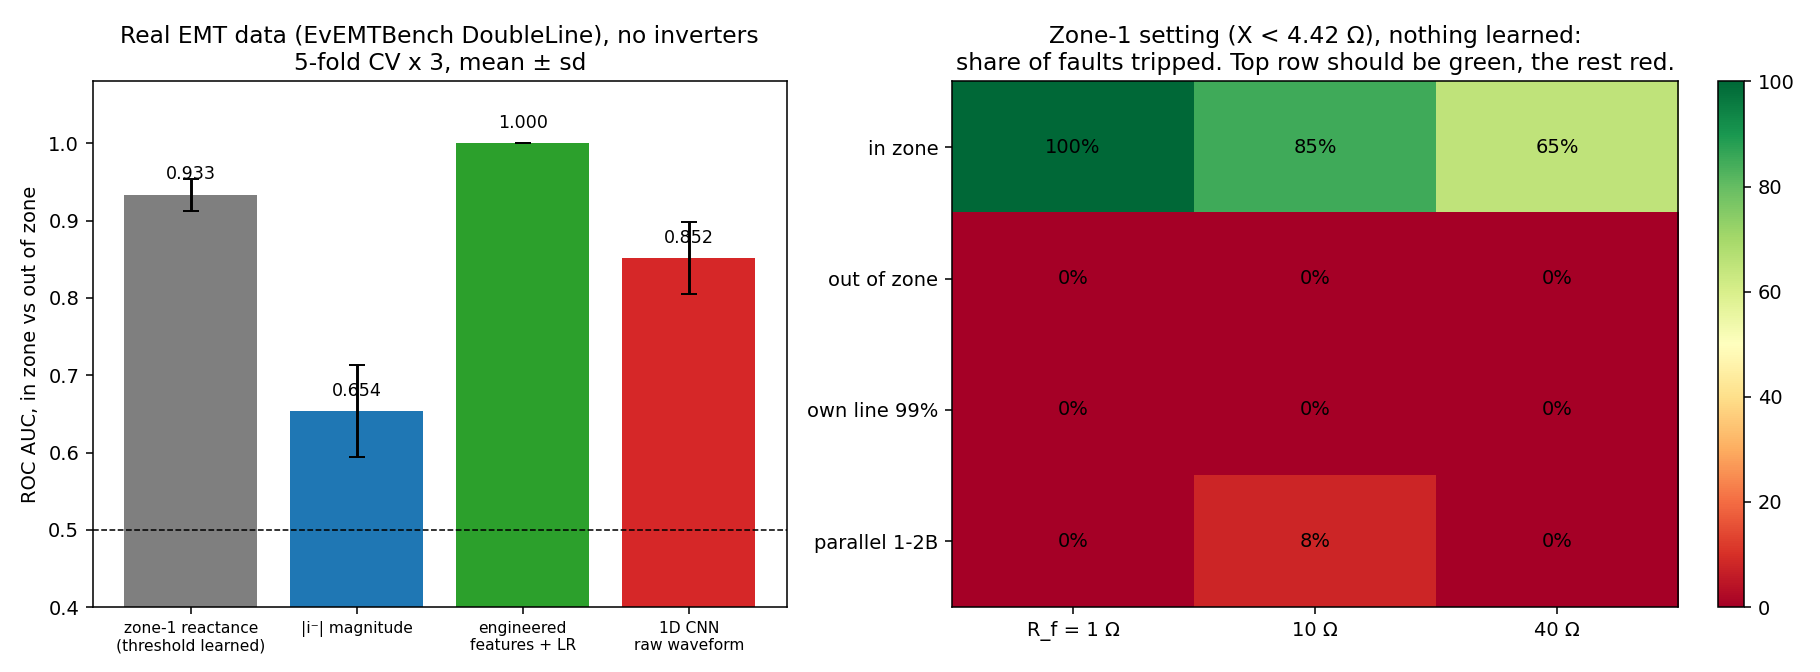
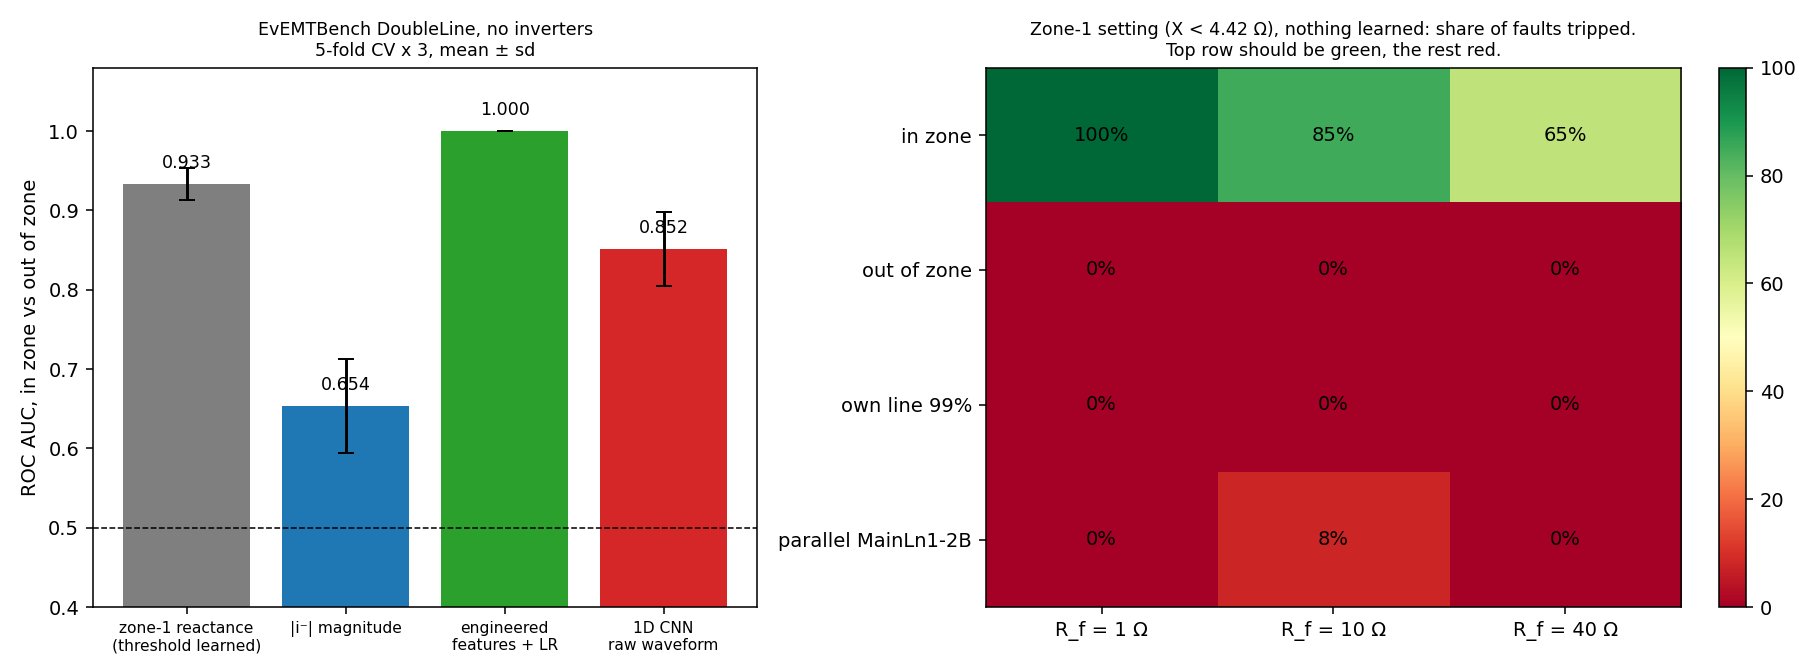
Disk-streaming cache for large EvEMTBench archives; per-grid zone configs
evemt.build_cache_disk writes each simulation to a raw float32 file as it is read, so memory
stays flat however large the archive is; load_cache opens it as a memmap. Needed for
benchmark-TestGrid110kV (8.9 GB compressed) on a machine with 3.5 GB free RAM. Verified
byte-identical against the in-memory cache on a three-simulation test archive.

real_zone.py is rewritten around a CONFIGS table: doubleline (control arm), testgrid_A
(relay bus 1 on line 1-2A, inverter at remote bus 2) and testgrid_B (relay bus 2 on line
2-3, inverter at remote bus 3). For inverter grids it also measures, from the inverter's
own terminals, how far its current rises during faults, so the 1.2 pu limiter is checked
rather than assumed. The doubleline run reproduces the committed numbers exactly and adds
one: relay current rises to 11.4x its prefault peak during in-zone faults on the stiff grid.

diff --git a/src/real_zone.py b/src/real_zone.py
@@ -1,35 +1,32 @@
 """
-The zone experiment on real EMT data: EvEMTBench benchmark-DoubleLine.
+The zone experiment on real EMT data (EvEMTBench), one run per (grid, relay).
 
-Grid (from the archive's own graph): two 30 GVA external grids behind 380/110 kV transformers
-at buses 1 and 3, a 200 MW load at bus 2, and two double-circuit 110 kV line pairs
-1-2 (20 km and 25 km) and 2-3 (30 km and 40 km). No inverter-based resources. This is the
-conventional, stiff-source case, and it is the control arm for the inverter experiment.
+    python src/real_zone.py doubleline      # control arm: stiff grid, no inverters
+    python src/real_zone.py testgrid_A      # relay bus 1 on line 1-2A, inverter at remote bus 2
+    python src/real_zone.py testgrid_B      # relay bus 2 on line 2-3,  inverter at remote bus 3
 
-Relay: bus 1, start of line 1-2A (cubicle Cub_2). Zone 1 covers the first 85 % of that line.
+For each relay:
+    in zone      faults on the relay's own line at 1, 20, 50, 80 %            (positives)
+    out of zone  faults on the lines leaving the remote bus at 1 and 20 %,
+                 and faults on the remote bus itself                           (negatives)
+    held out, never trained on:
+                 own line at 99 % (past the zone-1 reach), the parallel line if there is one,
+                 and non-fault switching events
+All fault types, all fault resistances, all phase selections.
 
-    in zone      faults on 1-2A at 1, 20, 50, 80 %                         (positives)
-    out of zone  faults on 2-3A and 2-3B at 1 and 20 %, and at bus 2        (negatives)
-    reported separately, never trained on:
-                 faults on 1-2A at 99 %      (past the reach on the relay's own line)
-                 faults on the parallel line 1-2B, all locations
-                 non-fault switching events
+Detectors:
+    zone-1 setting    six k0-compensated loops, faulted-phase selection, trip if the smallest
+                      forward reactance is below 0.85 x line reactance. Nothing learned.
+    reactance score   the same quantity with its threshold learned on the training folds
+    |i-|              negative-sequence current magnitude
+    engineered + LR   the multivariate relay feature set
+    1D CNN            raw six-channel window
 
-All fault types, all three fault resistances (1, 10, 40 ohm), all phase selections.
+Protocol: 5-fold stratified cross-validation repeated 3 times. One window per simulation, so
+folds are grouped by episode and nothing leaks.
 
-Five detectors:
-  zone-1 setting     the relay a protection engineer would set: six k0-compensated loops,
-                     current supervision, trip if the smallest forward reactance is below
-                     0.85 * line reactance. Nothing learned.
-  reactance score    the same quantity with its threshold learned on the training folds
-  |i-|               negative-sequence current magnitude
-  engineered + LR    the multivariate relay feature set
-  1D CNN             raw six-channel window
-
-Protocol: 5-fold stratified cross-validation repeated 3 times. Each simulation contributes one
-window, so folds are already grouped by episode and nothing leaks between train and test.
-
-  python src/real_zone.py [cache.npz]
+For inverter grids the script also measures, from the inverter's own terminals, how far its
+current rises during faults, so the 1.2 pu limiter can be confirmed rather than assumed.
 """
 import sys, os, json, glob, time
 from types import SimpleNamespace
@@ -37,15 +34,33 @@ import numpy as np
 
 sys.path.insert(0, os.path.dirname(os.path.abspath(__file__)))
 from evemt import load_cache, line_params, window
-from zone_model import supervised_reactance
-from zone_detect import score_reactance, score_negseq, zone_features, _phasors, _seq_vec
+from zone_detect import score_reactance, score_negseq, zone_features
 from detect import evaluate, train_cnn
+from waveforms import sequence_phasors
 
 ROOT = os.path.join(os.path.dirname(os.path.abspath(__file__)), "..")
 OUT = os.path.join(ROOT, "results")
-RELAY = "Cub_2\\pex_MainBus1_MainLn1-2A"
-LINE = "MainLn1-2A"
 REACH = 0.85
+
+CONFIGS = {
+    "doubleline": dict(
+        cache_glob="*DoubleLine*_cache.npz",
+        title="EvEMTBench DoubleLine, no inverters",
+        relay="Cub_2\\pex_MainBus1_MainLn1-2A", line="MainLn1-2A", remote_bus="MainBus2",
+        beyond=["MainLn2-3A", "MainLn2-3B"], parallel="MainLn1-2B", ibr_cubicles=[]),
+    "testgrid_A": dict(
+        cache_glob="*TestGrid110kV*_cache.meta.npz",
+        title="EvEMTBench TestGrid110kV, relay bus 1 on line 1-2A, inverter at remote bus 2",
+        relay="Cub_HV_A_A-B-1\\pex_MainBus1_MainLn1-2A", line="MainLn1-2A", remote_bus="MainBus2",
+        beyond=["MainLn2-3", "MainLn2-5", "MainLn2-6"], parallel="MainLn1-2B",
+        ibr_cubicles=["Cubicle(1)\\pex_MainBus2_Ind2-2IBR"]),
+    "testgrid_B": dict(
+        cache_glob="*TestGrid110kV*_cache.meta.npz",
+        title="EvEMTBench TestGrid110kV, relay bus 2 on line 2-3, inverter at remote bus 3",
+        relay="Cub_HV_B_B-C\\pex_MainBus2_MainLn2-3", line="MainLn2-3", remote_bus="MainBus3",
+        beyond=["MainLn3-4"], parallel=None,
+        ibr_cubicles=["Cubicle(1)\\pex_MainBus3_Ind3-3IBR"]),
+}
 
 
 def engineered_scores(Xtr, ytr, Xte, g, seed):
@@ -57,18 +72,25 @@ def engineered_scores(Xtr, ytr, Xte, g, seed):
     return clf, clf.decision_function(zone_features(Xtr, g)), clf.decision_function(zone_features(Xte, g))
 
 
+def windows(C, cubicle):
+    k = C["cubicles"].index(cubicle)
+    return np.ascontiguousarray(window(np.asarray(C["x"][:, k]), C["event_index"]))
+
+
 def main():
-    cache = sys.argv[1] if len(sys.argv) > 1 else sorted(glob.glob(os.path.join(ROOT, "data", "*DoubleLine*_cache.npz")))[0]
+    name = sys.argv[1] if len(sys.argv) > 1 else "doubleline"
+    cfg = CONFIGS[name]
+    cache = sys.argv[2] if len(sys.argv) > 2 else sorted(glob.glob(os.path.join(ROOT, "data", cfg["cache_glob"])))[0]
     t0 = time.time()
     C = load_cache(cache)
     L = C["labels"]
-    ci = C["cubicles"].index(RELAY)
-    X_all = window(C["x"][:, ci], C["event_index"])            # (n, 6, 1024)
-    lp = line_params(C["graph"], LINE)
+    X_all = windows(C, cfg["relay"])                              # (n, 6, 1024)
+    lp = line_params(C["graph"], cfg["line"])
     g = SimpleNamespace(z1=lp["z1"], z0_ratio=lp["z0"] / lp["z1"])
     x_reach = REACH * lp["length_km"] * lp["z1"].imag
+    print(f"[{name}] {cfg['title']}")
     print(f"loaded {X_all.shape} from {os.path.basename(cache)} in {time.time()-t0:.0f}s")
-    print(f"line {LINE}: {lp['length_km']:.0f} km, z1 {lp['z1']:.4f}, z0 {lp['z0']:.4f} ohm/km, "
+    print(f"line {cfg['line']}: {lp['length_km']:.1f} km, z1 {lp['z1']:.4f}, z0 {lp['z0']:.4f} ohm/km, "
           f"zone-1 reactance reach {x_reach:.3f} ohm")
 
     et = L["events/event_type"].astype(str)
@@ -76,46 +98,69 @@ def main():
     loc = L["events/event_flt_target_line_location"]
     rf = L["events/event_flt_shc_resistance"]
     shc = et.str.contains("shc").to_numpy()
+    print("fault targets in labels:", sorted(tgt[shc].unique()))
+    print("fault resistances:", sorted(rf[shc].dropna().unique()), " locations:", sorted(loc[shc].dropna().unique()))
 
-    pos = shc & (tgt == LINE).to_numpy() & loc.isin([1, 20, 50, 80]).to_numpy()
-    neg = shc & ((tgt.isin(["MainLn2-3A", "MainLn2-3B"]) & loc.isin([1, 20])) | (tgt == "MainBus2")).to_numpy()
-    own99 = shc & (tgt == LINE).to_numpy() & (loc == 99).to_numpy()
-    parallel = shc & (tgt == "MainLn1-2B").to_numpy()
+    pos = shc & (tgt == cfg["line"]).to_numpy() & loc.isin([1, 20, 50, 80]).to_numpy()
+    neg = shc & ((tgt.isin(cfg["beyond"]) & loc.isin([1, 20])) | (tgt == cfg["remote_bus"])).to_numpy()
+    own99 = shc & (tgt == cfg["line"]).to_numpy() & (loc == 99).to_numpy()
+    parallel = (shc & (tgt == cfg["parallel"]).to_numpy()) if cfg["parallel"] else np.zeros(len(L), bool)
     nonfault = et.str.startswith("switch").to_numpy()
     print(f"in zone {pos.sum()}, out of zone {neg.sum()} | held out: own line 99% {own99.sum()}, "
           f"parallel line {parallel.sum()}, non-fault events {nonfault.sum()}")
+    if pos.sum() == 0 or neg.sum() == 0:
+        raise SystemExit("empty class; check CONFIGS against the fault targets printed above")
 
-    idx = np.where(pos | neg)[0]
-    X = X_all[idx]
-    y = pos[idx].astype(int)
+    # ------------------------------------------------ is the inverter actually current-limiting?
+    spc, ev = C["samples_per_cycle"], 4 * C["samples_per_cycle"]
+    inverter = {}
+    for cub in cfg["ibr_cubicles"]:
+        W = windows(C, cub)
+        peak_pre = np.abs(W[:, 3:, ev - 2 * spc:ev]).max(axis=(1, 2))
+        peak_post = np.abs(W[:, 3:, ev + spc // 4:ev + 3 * spc]).max(axis=(1, 2))
+        ratio = peak_post / np.maximum(peak_pre, 1e-9)
+        i1_pre = np.array([abs(sequence_phasors(w[3:], ev - 2 * spc)[1]) for w in W])
+        inverter[cub] = dict(prefault_I1_median_A=float(np.median(i1_pre[shc])),
+                             fault_peak_ratio_median=float(np.median(ratio[shc])),
+                             fault_peak_ratio_p95=float(np.percentile(ratio[shc], 95)),
+                             fault_peak_ratio_max=float(ratio[shc].max()))
+        v = inverter[cub]
+        print(f"inverter {cub}: prefault |I1| median {v['prefault_I1_median_A']:.0f} A; during faults peak "
+              f"current is {v['fault_peak_ratio_median']:.2f}x prefault (median), "
+              f"{v['fault_peak_ratio_p95']:.2f}x (95th pct), {v['fault_peak_ratio_max']:.2f}x (max)")
+    relay_ratio = (np.abs(X_all[:, 3:, ev + spc // 4:ev + 3 * spc]).max(axis=(1, 2))
+                   / np.maximum(np.abs(X_all[:, 3:, ev - 2 * spc:ev]).max(axis=(1, 2)), 1e-9))
+    print(f"relay current during in-zone faults: {np.median(relay_ratio[pos]):.1f}x prefault peak (median)")
 
-    # ---------------------------------------------------------------- zone-1 setting, no learning
+    # ------------------------------------------------ zone-1 setting, nothing learned
     react_all = score_reactance(X_all, g)
     trip = react_all < x_reach
-    setting = dict(
-        dependability=float(trip[pos].mean()), false_trip_out_of_zone=float(trip[neg].mean()),
-        trip_own_line_99=float(trip[own99].mean()), trip_parallel_line=float(trip[parallel].mean()),
-        trip_nonfault=float(trip[nonfault].mean()) if nonfault.any() else None)
-    breakdown = {}
-    for name, mask in (("in zone", pos), ("out of zone", neg), ("own line 99%", own99), ("parallel 1-2B", parallel)):
-        row = {}
-        for r in (1.0, 10.0, 40.0):
-            m = mask & (rf == r).to_numpy()
-            row[f"{r:g} ohm"] = float(trip[m].mean()) if m.any() else None
-        breakdown[name] = row
-    print("\nzone-1 setting (reactance < %.3f ohm), nothing learned:" % x_reach)
+    setting = dict(dependability=float(trip[pos].mean()), false_trip_out_of_zone=float(trip[neg].mean()),
+                   trip_own_line_99=float(trip[own99].mean()) if own99.any() else None,
+                   trip_parallel_line=float(trip[parallel].mean()) if parallel.any() else None,
+                   trip_nonfault=float(trip[nonfault].mean()) if nonfault.any() else None)
+    groups = [("in zone", pos), ("out of zone", neg), ("own line 99%", own99)]
+    if parallel.any():
+        groups.append((f"parallel {cfg['parallel']}", parallel))
+    resistances = sorted(rf[shc].dropna().unique())
+    breakdown = {gn: {f"{r:g} ohm": (float(trip[m & (rf == r).to_numpy()].mean())
+                                     if (m & (rf == r).to_numpy()).any() else None) for r in resistances}
+                 for gn, m in groups}
+    print(f"\nzone-1 setting (reactance < {x_reach:.3f} ohm), nothing learned:")
     for k, v in setting.items():
-        print(f"  {k:26s} {v*100:6.1f} %" if v is not None else f"  {k:26s}   n/a")
+        print(f"  {k:26s} " + (f"{v*100:6.1f} %" if v is not None else "   n/a"))
     print("  trip rate by fault resistance:")
-    for name, row in breakdown.items():
-        print("   %-15s " % name + "  ".join(f"{k}: {v*100:5.1f}%" for k, v in row.items() if v is not None))
+    for gn, row in breakdown.items():
+        print(f"   {gn:18s} " + "  ".join(f"{k}: {v*100:5.1f}%" for k, v in row.items() if v is not None))
 
-    # ---------------------------------------------------------------- cross-validated comparison
+    # ------------------------------------------------ cross-validated comparison
     from sklearn.model_selection import RepeatedStratifiedKFold
-    rskf = RepeatedStratifiedKFold(n_splits=5, n_repeats=3, random_state=0)
+    idx = np.where(pos | neg)[0]
+    X, y = X_all[idx], pos[idx].astype(int)
+    react_X, neg_X = react_all[idx], score_negseq(X)
     keys = ("reactance", "negseq", "engineered", "cnn")
     folds = {k: [] for k in keys}
-    react_X, neg_X = react_all[idx], score_negseq(X)
+    rskf = RepeatedStratifiedKFold(n_splits=5, n_repeats=3, random_state=0)
     for f, (tr, te) in enumerate(rskf.split(X, y)):
         folds["reactance"].append(evaluate(react_X[tr], y[tr], react_X[te], y[te]))
         folds["negseq"].append(evaluate(neg_X[tr], y[tr], neg_X[te], y[te]))
@@ -125,72 +170,70 @@ def main():
         folds["cnn"].append(evaluate(s_tr, y[tr], s_te, y[te]))
         if (f + 1) % 5 == 0:
             print(f"  folds done: {f+1}/15  [{time.time()-t0:.0f}s]", flush=True)
-
     summary = {}
     print("\ncross-validated, 5 folds x 3 repeats (mean +- sd):")
     for k in keys:
         get = lambda fld: np.array([r[fld] for r in folds[k]])
         summary[k] = dict(auc=float(get("auc").mean()), auc_sd=float(get("auc").std()),
                           dep_at_5pct=float(get("detection_at_5pct").mean()),
-                          dep_at_5pct_sd=float(get("detection_at_5pct").std()),
-                          false_trip_at_5pct=float(get("false_alarm_at_5pct").mean()))
+                          dep_at_5pct_sd=float(get("detection_at_5pct").std()))
         s = summary[k]
         print(f"  {k:11s} AUC {s['auc']:.3f} +- {s['auc_sd']:.3f}   dependability at 5% false trip "
               f"{s['dep_at_5pct']*100:5.1f} +- {s['dep_at_5pct_sd']*100:.1f} %")
 
-    # ---------------------------------------------------------------- held-out sets, learned detectors
-    # Train each learned detector once on all in/out-of-zone cases, set its threshold at a 5 %
-    # false-trip rate on those negatives, then ask how it treats cases it never saw.
-    held = {"own line 99%": own99, "parallel line 1-2B": parallel}
+    # ------------------------------------------------ held-out sets
+    held = {"own line 99%": own99}
+    if parallel.any():
+        held[f"parallel line {cfg['parallel']}"] = parallel
     if nonfault.any():
         held["non-fault events"] = nonfault
-    heldout = {}
     clf, e_all_tr, _ = engineered_scores(X, y, X[:1], g, seed=0)
     thr_e = np.quantile(e_all_tr[y == 0], 0.95)
-    heldout["engineered"] = {n: float((clf.decision_function(zone_features(X_all[m], g)) > thr_e).mean())
-                             for n, m in held.items()}
-    heldout["zone-1 setting"] = {n: float(trip[m].mean()) for n, m in held.items()}
-    print("\nheld-out sets, fraction the detector calls in-zone (all should be low):")
+    heldout = {"engineered": {n: float((clf.decision_function(zone_features(X_all[m], g)) > thr_e).mean())
+                              for n, m in held.items() if m.any()},
+               "zone-1 setting": {n: float(trip[m].mean()) for n, m in held.items() if m.any()}}
+    print("\nheld-out sets, fraction called in zone (all should be low):")
     for d, r in heldout.items():
         print(f"  {d:15s} " + "   ".join(f"{n}: {v*100:5.1f}%" for n, v in r.items()))
 
-    # ---------------------------------------------------------------- figure
+    # ------------------------------------------------ figure
     import matplotlib
     matplotlib.use("Agg")
     import matplotlib.pyplot as plt
     fig, axs = plt.subplots(1, 2, figsize=(13, 4.8), gridspec_kw=dict(width_ratios=[1, 1.15]))
-    names = ["zone-1 reactance\n(threshold learned)", "|i⁻| magnitude", "engineered\nfeatures + LR", "1D CNN\nraw waveform"]
-    cols = ["tab:gray", "tab:blue", "tab:green", "tab:red"]
+    labels_ = ["zone-1 reactance\n(threshold learned)", "|i⁻| magnitude", "engineered\nfeatures + LR", "1D CNN\nraw waveform"]
+    colors = ["tab:gray", "tab:blue", "tab:green", "tab:red"]
     au = [summary[k]["auc"] for k in keys]
-    sd = [summary[k]["auc_sd"] for k in keys]
-    axs[0].bar(range(4), au, yerr=sd, color=cols, capsize=4)
+    axs[0].bar(range(4), au, yerr=[summary[k]["auc_sd"] for k in keys], color=colors, capsize=4)
     axs[0].axhline(0.5, ls="--", lw=.8, color="k")
     for i, v in enumerate(au):
         axs[0].text(i, v + 0.02, f"{v:.3f}", ha="center", fontsize=9)
-    axs[0].set_xticks(range(4)); axs[0].set_xticklabels(names, fontsize=8)
+    axs[0].set_xticks(range(4)); axs[0].set_xticklabels(labels_, fontsize=8)
     axs[0].set_ylim(0.4, 1.08); axs[0].set_ylabel("ROC AUC, in zone vs out of zone")
-    axs[0].set_title("Real EMT data (EvEMTBench DoubleLine), no inverters\n5-fold CV x 3, mean ± sd")
-    rows = list(breakdown.keys()); cols_r = ["1 ohm", "10 ohm", "40 ohm"]
-    M = np.array([[breakdown[r][c] if breakdown[r][c] is not None else np.nan for c in cols_r] for r in rows]) * 100
+    axs[0].set_title(cfg["title"].replace(", relay", "\nrelay") + "\n5-fold CV x 3, mean ± sd", fontsize=9)
+    rows = list(breakdown.keys()); cols = list(next(iter(breakdown.values())).keys())
+    M = np.array([[breakdown[r][c] if breakdown[r][c] is not None else np.nan for c in cols] for r in rows]) * 100
     im = axs[1].imshow(M, cmap="RdYlGn", vmin=0, vmax=100, aspect="auto")
     for i in range(M.shape[0]):
         for j in range(M.shape[1]):
-            axs[1].text(j, i, f"{M[i,j]:.0f}%", ha="center", va="center", fontsize=10)
-    axs[1].set_xticks(range(3)); axs[1].set_xticklabels(["R_f = 1 Ω", "10 Ω", "40 Ω"])
+            if not np.isnan(M[i, j]):
+                axs[1].text(j, i, f"{M[i,j]:.0f}%", ha="center", va="center", fontsize=10)
+    axs[1].set_xticks(range(len(cols))); axs[1].set_xticklabels([f"R_f = {c.replace(' ohm',' Ω')}" for c in cols])
     axs[1].set_yticks(range(len(rows))); axs[1].set_yticklabels(rows)
-    axs[1].set_title(f"Zone-1 setting (X < {x_reach:.2f} Ω), nothing learned:\nshare of faults tripped. "
-                     "Top row should be green, the rest red.")
+    axs[1].set_title(f"Zone-1 setting (X < {x_reach:.2f} Ω), nothing learned: share of faults tripped.\n"
+                     "Top row should be green, the rest red.", fontsize=9)
     plt.colorbar(im, ax=axs[1], fraction=0.04)
     plt.tight_layout()
-    png = os.path.join(OUT, "real_doubleline.png")
+    png = os.path.join(OUT, f"real_{name}.png")
     plt.savefig(png, dpi=140)
-    json.dump(dict(dataset="EvEMTBench benchmark-DoubleLine", relay=RELAY, line=LINE,
-                   line_km=lp["length_km"], z1=[lp["z1"].real, lp["z1"].imag],
-                   z0=[lp["z0"].real, lp["z0"].imag], zone1_reach_ohm=x_reach,
+    json.dump(dict(config=name, dataset=cfg["title"], relay=cfg["relay"], line=cfg["line"],
+                   line_km=lp["length_km"], z1=[lp["z1"].real, lp["z1"].imag], z0=[lp["z0"].real, lp["z0"].imag],
+                   zone1_reach_ohm=x_reach, inverter_current=inverter,
+                   relay_current_ratio_in_zone_median=float(np.median(relay_ratio[pos])),
                    counts=dict(in_zone=int(pos.sum()), out_of_zone=int(neg.sum()), own99=int(own99.sum()),
                                parallel=int(parallel.sum()), nonfault=int(nonfault.sum())),
                    zone1_setting=setting, zone1_breakdown=breakdown, cv=summary, heldout=heldout),
-              open(os.path.join(OUT, "real_doubleline.json"), "w"), indent=2)
+              open(os.path.join(OUT, f"real_{name}.json"), "w"), indent=2)
     print(f"\nsaved {os.path.relpath(png)}  [{time.time()-t0:.0f}s]")
 
 

diff --git a/src/evemt.py b/src/evemt.py
@@ -107,7 +107,66 @@ def build_cache(path, cubicles, fn=None, out=None, verbose=True):
     return out
 
 
+def build_cache_disk(path, cubicles, fn=50, out=None, verbose=True):
+    """Same as build_cache, but writes each simulation to disk as it is read, so memory stays
+    flat however large the archive is. Produces <out>.bin (raw float32, C order,
+    (n_sims, n_cubicles, 6, n_samples)) and <out>.meta.npz with everything else.
+    load_cache accepts the .meta.npz path."""
+    base = out or os.path.splitext(os.path.splitext(path)[0])[0] + "_cache"
+    bin_path, meta_path = base + ".bin", base + ".meta.npz"
+    up, down = _resample_factors(fn)
+    files, labels_raw, graph_raw, n_samples = [], None, None, None
+    t0 = time.time()
+    with open(bin_path, "wb") as fbin:
+        for name, raw in _members(path):
+            if name.endswith("labels/settings_clean.csv"):
+                labels_raw = raw
+                continue
+            if name.endswith(".pickle") and "/graphs/" in name:
+                graph_raw = raw
+                continue
+            if "/data/result" not in name or not name.endswith(".csv"):
+                continue
+            df = pd.read_csv(io.BytesIO(raw), header=[0, 1], low_memory=False)
+            block = np.stack([resample_poly(df[c][CHANNELS].to_numpy(dtype=np.float64).T, up, down, axis=1)
+                              for c in cubicles]).astype(np.float32)
+            if n_samples is None:
+                n_samples = block.shape[-1]
+            if block.shape[-1] != n_samples:
+                raise RuntimeError(f"{name}: {block.shape[-1]} samples, expected {n_samples}")
+            fbin.write(np.ascontiguousarray(block).tobytes())
+            files.append(name.rsplit("/", 1)[-1])
+            if verbose and len(files) % 200 == 0:
+                print(f"  {len(files)} simulations  [{time.time()-t0:.0f}s]", flush=True)
+    if labels_raw is not None:
+        fns = pd.read_csv(io.BytesIO(labels_raw))["general/fn"].unique()
+        if len(fns) == 1 and int(fns[0]) != fn:
+            raise RuntimeError(f"labels say {fns[0]} Hz but cache was built at {fn} Hz")
+    fs = FS_RAW * up / down
+    np.savez_compressed(meta_path, bin=os.path.basename(bin_path),
+                        shape=np.array([len(files), len(cubicles), 6, n_samples]),
+                        files=np.array(files), cubicles=np.array(cubicles), fs=fs,
+                        event_index=int(round((EVENT_T - T0) * fs)), samples_per_cycle=SAMPLES_PER_CYCLE,
+                        labels=np.frombuffer(labels_raw or b"", dtype=np.uint8),
+                        graph=np.frombuffer(graph_raw or b"", dtype=np.uint8))
+    if verbose:
+        print(f"cached ({len(files)}, {len(cubicles)}, 6, {n_samples}) at {fs:.0f} Hz -> {bin_path}  "
+              f"[{time.time()-t0:.0f}s, {os.path.getsize(bin_path)/1e9:.2f} GB]")
+    return meta_path
+
+
 def load_cache(path):
+    if path.endswith(".meta.npz"):
+        z = np.load(path, allow_pickle=False)
+        shape = tuple(int(s) for s in z["shape"])
+        x = np.memmap(os.path.join(os.path.dirname(path), str(z["bin"])), dtype=np.float32, mode="r", shape=shape)
+        labels = pd.read_csv(io.BytesIO(z["labels"].tobytes()))
+        labels["file"] = labels["general/result_file_path"].str.replace("\\", "/", regex=False).str.rsplit("/", n=1).str[-1]
+        labels = labels.set_index("file").loc[list(z["files"])].reset_index()
+        graph = pickle.loads(z["graph"].tobytes()) if z["graph"].size else None
+        return dict(x=x, files=list(z["files"]), cubicles=list(z["cubicles"]), fs=float(z["fs"]),
+                    event_index=int(z["event_index"]), samples_per_cycle=int(z["samples_per_cycle"]),
+                    labels=labels, graph=graph)
     z = np.load(path, allow_pickle=False)
     labels = pd.read_csv(io.BytesIO(z["labels"].tobytes()))
     labels["file"] = labels["general/result_file_path"].str.replace("\\", "/", regex=False).str.rsplit("/", n=1).str[-1]
@@ -142,5 +201,7 @@ if __name__ == "__main__":
             print(c)
     elif cmd == "cache":
         build_cache(arc, sys.argv[3:])
+    elif cmd == "cache-disk":
+        build_cache_disk(arc, sys.argv[3:])
     else:
         raise SystemExit(__doc__)
